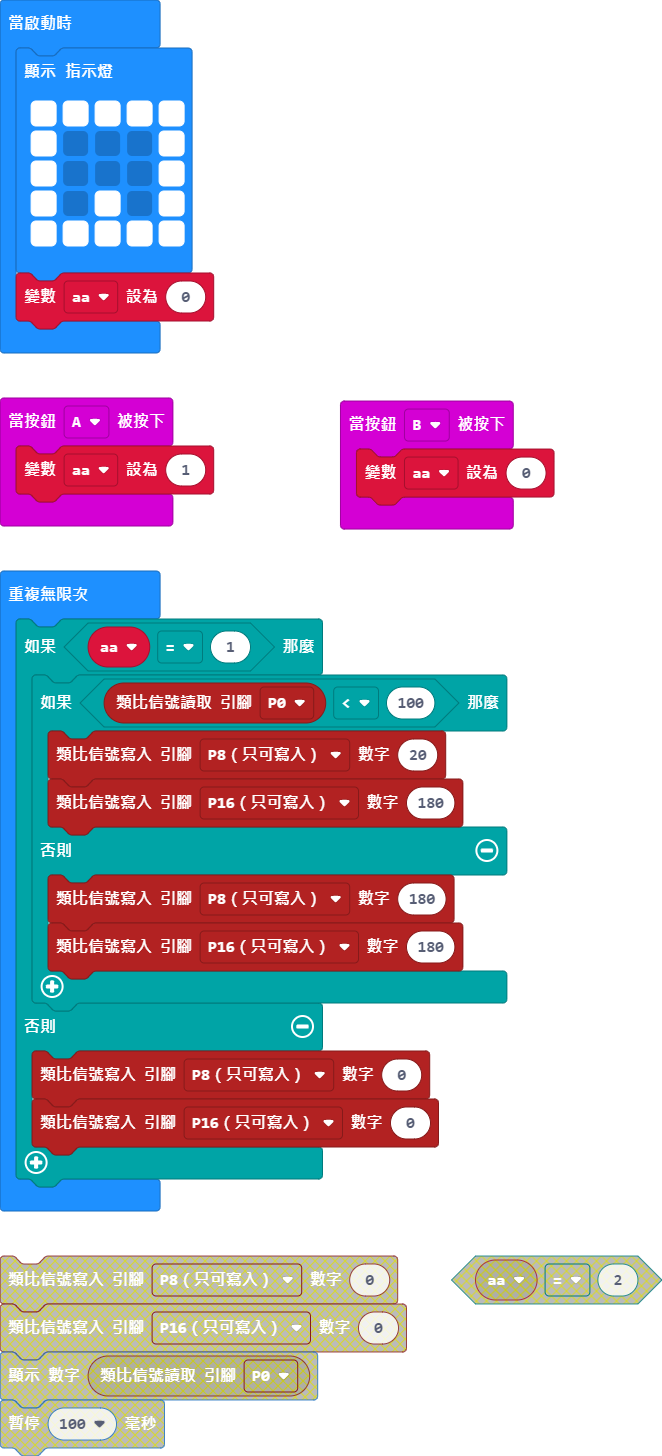
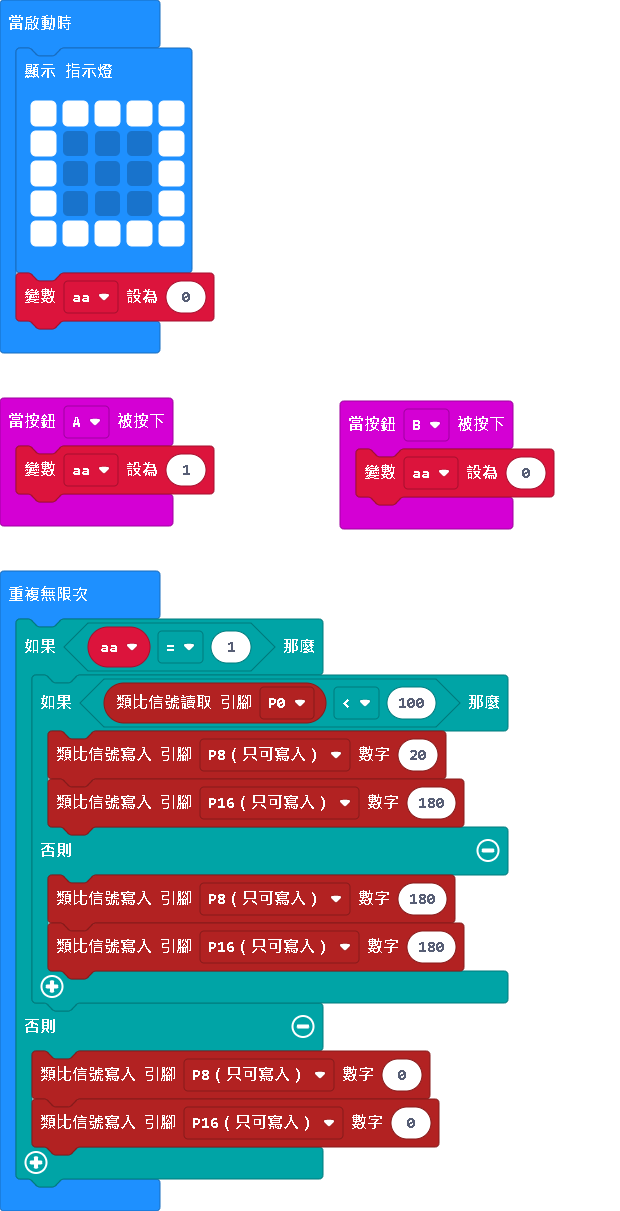
更新 main.blocks, main.ts

diff --git a/main.ts b/main.ts
@@ -9,7 +9,7 @@ basic.showLeds(`
     # # # # #
     # . . . #
     # . . . #
-    # . # . #
+    # . . . #
     # # # # #
     `)
 aa = 0
